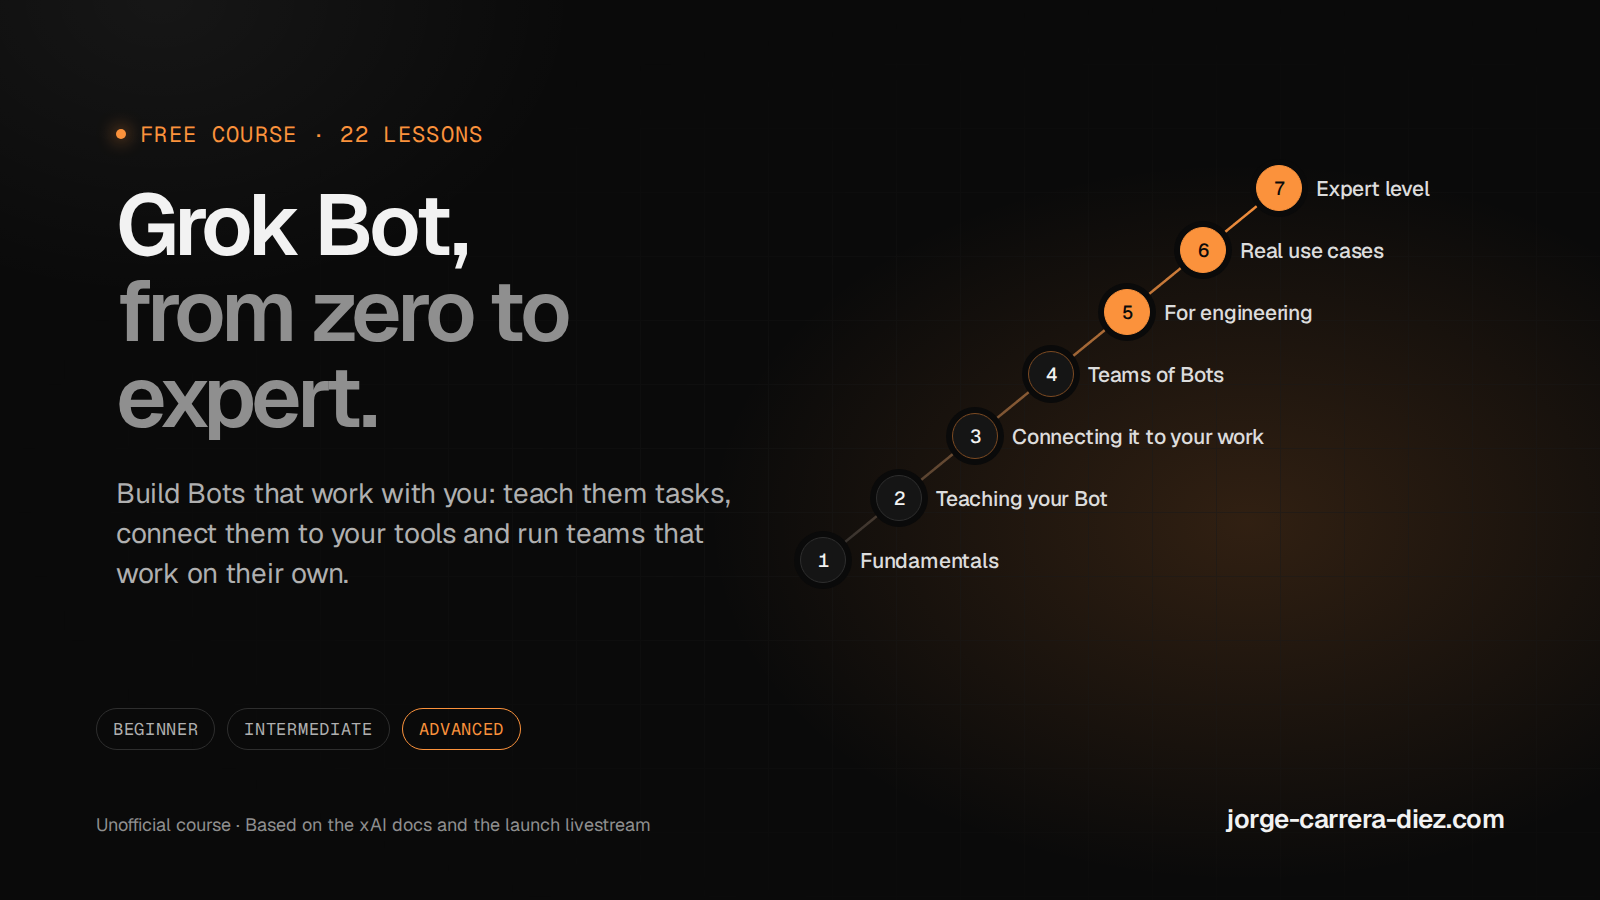
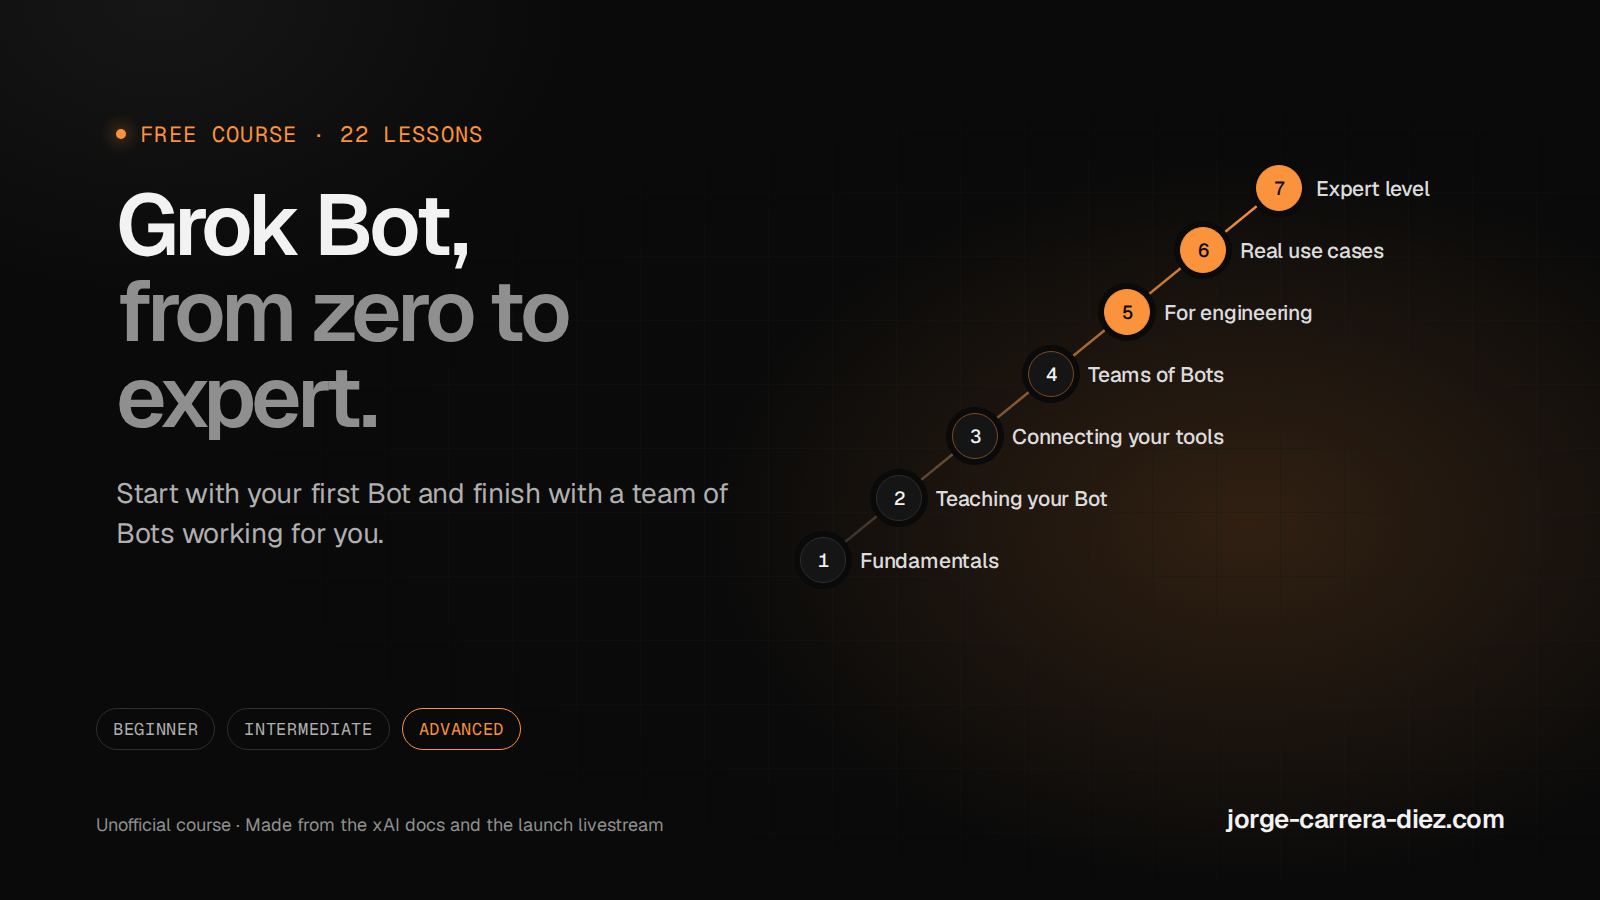
fix(cursos): textos de la portada del curso más naturales

Changed region(s): [[0.0625, 0.5289, 0.4688, 0.6533], [0.1562, 0.9022, 0.4062, 0.9333], [0.6875, 0.4667, 0.7812, 0.4978]]

diff --git a/src/content/courses/grok-bot/meta.ts b/src/content/courses/grok-bot/meta.ts
@@ -65,8 +65,8 @@ export const grokBotCourse = {
   ] as LivePart[],
   modules: [
     { number: 1, title: { es: "Fundamentos", en: "Fundamentals" }, level: "beginner" },
-    { number: 2, title: { es: "Que aprenda contigo", en: "Teaching your Bot" }, level: "beginner" },
-    { number: 3, title: { es: "Conectarlo a tu trabajo", en: "Connecting it to your work" }, level: "intermediate" },
+    { number: 2, title: { es: "Enseñar a tu Bot", en: "Teaching your Bot" }, level: "beginner" },
+    { number: 3, title: { es: "Conectar tus herramientas", en: "Connecting your tools" }, level: "intermediate" },
     { number: 4, title: { es: "Equipos de Bots", en: "Teams of Bots" }, level: "intermediate" },
     { number: 5, title: { es: "Grok Bot para ingeniería", en: "Grok Bot for engineering" }, level: "advanced" },
     { number: 6, title: { es: "Casos reales", en: "Real use cases" }, level: "advanced" },
@@ -100,23 +100,23 @@ export const grokBotCourse = {
     es: {
       title: "Grok Bot, de cero a experto",
       description:
-        "Curso gratuito y escrito para aprender Grok Bot paso a paso: qué es, cómo crear tus primeros Bots, enseñarles tareas, conectarlos a tus herramientas y montar equipos que trabajen solos.",
+        "Curso gratis para aprender a usar Grok Bot desde cero. Lecciones cortas en español, con ejemplos reales y prompts que puedes copiar.",
       intro:
-        "Las nueve horas de la parte 1 del directo y veinte páginas de documentación, ordenadas en 22 lecciones que se leen en unos minutos. Empieza desde cero y sube de nivel poco a poco.",
+        "Lo he sacado del directo de lanzamiento y de la documentación oficial, y lo he ordenado en 22 lecciones cortas. Si nunca has usado Grok Bot, empieza por la primera.",
       unofficial:
-        "Curso no oficial. Se basa en la documentación de xAI y en el directo de lanzamiento de Grok Bot, que dura tres días.",
+        "Este curso no es de xAI. Está hecho a partir de su documentación y del directo de lanzamiento.",
       statusTitle: "Estado del curso",
       statusIntro:
-        "El directo de lanzamiento dura tres días y cada día es una parte. El curso crece a medida que se transcriben. Ahora mismo recoge la parte 1.",
+        "El directo de lanzamiento dura tres días. Cuando acaba cada uno, lo transcribo y añado al curso lo que haya de nuevo.",
       partLabel: "Parte",
-      statusDone: "Transcrita e incluida",
-      statusProcessing: "Grabándose hoy · se transcribe al terminar",
-      statusUpcoming: "Próximamente",
+      statusDone: "Ya está en el curso",
+      statusProcessing: "Se emite hoy. La añado cuando termine",
+      statusUpcoming: "Pendiente",
       lessonSource: "Basado en la parte {done} de {total} del directo",
-      lessonSourceMore: "Ver el estado",
+      lessonSourceMore: "Qué falta",
       start: "Empezar el curso",
-      continue: "Continuar donde lo dejaste",
-      review: "Repasar desde el principio",
+      continue: "Seguir donde lo dejaste",
+      review: "Volver a empezar",
       lessonsLabel: "lecciones",
       minutesLabel: "min",
       readingTime: "de lectura",
@@ -144,23 +144,23 @@ export const grokBotCourse = {
     en: {
       title: "Grok Bot, from zero to expert",
       description:
-        "A free written course to learn Grok Bot step by step: what it is, how to create your first Bots, teach them tasks, connect them to your tools and build teams that work on their own.",
+        "A free course to learn Grok Bot from scratch. Short lessons with real examples and prompts you can copy.",
       intro:
-        "Nine hours from part 1 of the livestream and twenty pages of documentation, organised into 22 lessons you can read in a few minutes each. Start from zero and level up gradually.",
+        "I took the launch livestream and the official docs and turned them into 22 short lessons. If you have never used Grok Bot, start with the first one.",
       unofficial:
-        "Unofficial course. Based on the xAI documentation and the three-day Grok Bot launch livestream.",
+        "This course is not made by xAI. It is based on their docs and the launch livestream.",
       statusTitle: "Course status",
       statusIntro:
-        "The launch livestream runs for three days, one part per day. The course grows as each part is transcribed. Right now it covers part 1.",
+        "The launch livestream runs over three days. When each day ends, I transcribe it and add anything new to the course.",
       partLabel: "Part",
-      statusDone: "Transcribed and included",
-      statusProcessing: "Recording today · transcribed when it ends",
-      statusUpcoming: "Coming soon",
+      statusDone: "In the course",
+      statusProcessing: "Airing today. Added once it ends",
+      statusUpcoming: "Not yet",
       lessonSource: "Based on part {done} of {total} of the livestream",
-      lessonSourceMore: "See status",
+      lessonSourceMore: "What's missing",
       start: "Start the course",
-      continue: "Continue where you left off",
-      review: "Review from the start",
+      continue: "Pick up where you left off",
+      review: "Start again",
       lessonsLabel: "lessons",
       minutesLabel: "min",
       readingTime: "reading",

diff --git a/src/content/courses/grok-bot/lessons/es/10-routines.md b/src/content/courses/grok-bot/lessons/es/10-routines.md
@@ -1,7 +1,7 @@
 ---
 id: "10"
 module: 3
-title: "Routines: trabajo que se repite solo"
+title: "Routines: tareas programadas"
 description: "Haz que un Bot repita una tarea probada con un horario o tras un evento, pruébala sin riesgos y evita que haga ruido o gaste de más."
 level: intermediate
 minutes: 8

diff --git a/src/content/courses/grok-bot/lessons/es/16-que-verifique-su-trabajo.md b/src/content/courses/grok-bot/lessons/es/16-que-verifique-su-trabajo.md
@@ -1,7 +1,7 @@
 ---
 id: "16"
 module: 5
-title: "Que verifique su trabajo"
+title: "Que el Bot compruebe su trabajo"
 description: "Dale a tus Bots una forma de comprobar su trabajo, exige pruebas como capturas, métricas y vídeos, y revisa esas pruebas en vez de los registros."
 level: advanced
 minutes: 8
